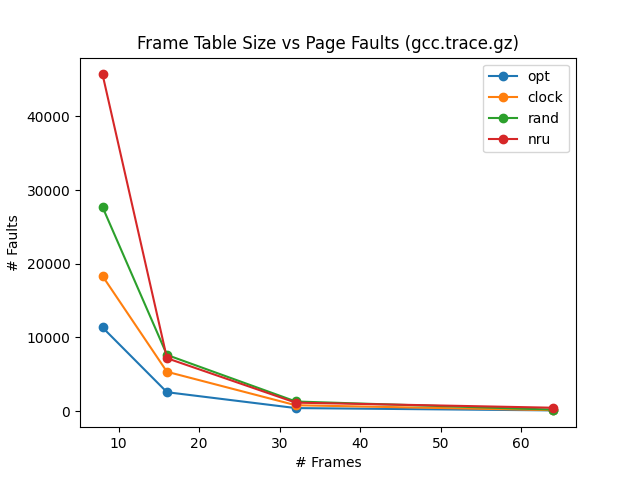
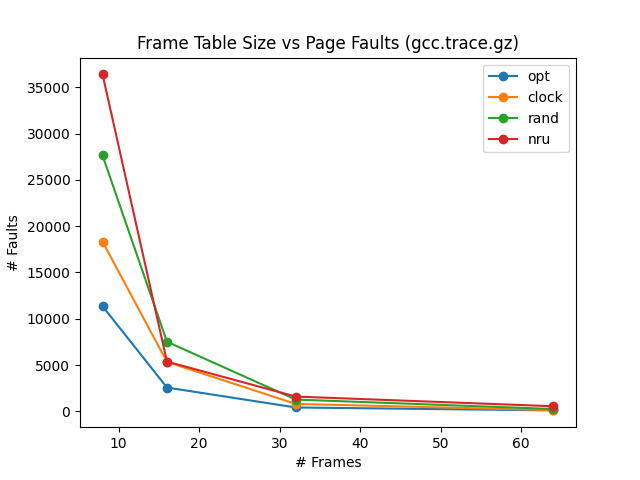
refresh of 500

diff --git a/graph.py b/graph.py
@@ -7,7 +7,7 @@ import numpy as np
 import vmsim
 
 x = np.array([8, 16, 32, 64])
-refresh = 1000 # for NRU
+refresh = 500 # for NRU
 
 for tracefile in ['gcc.trace.gz', 'ls.trace.gz']:
 